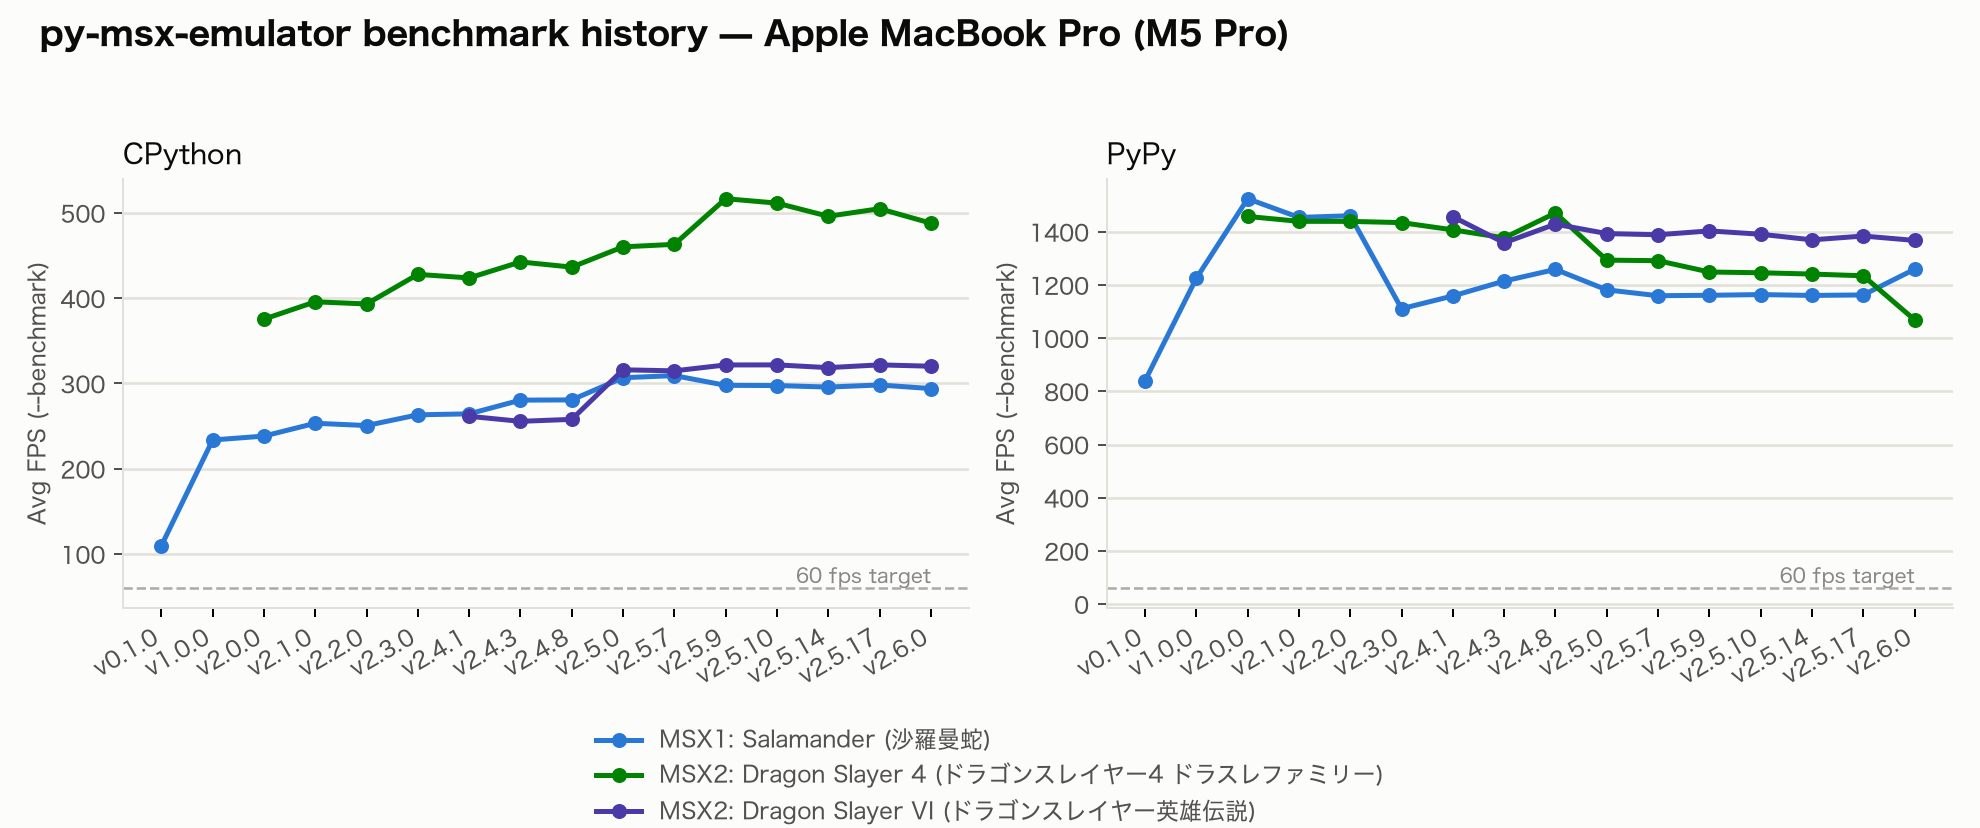
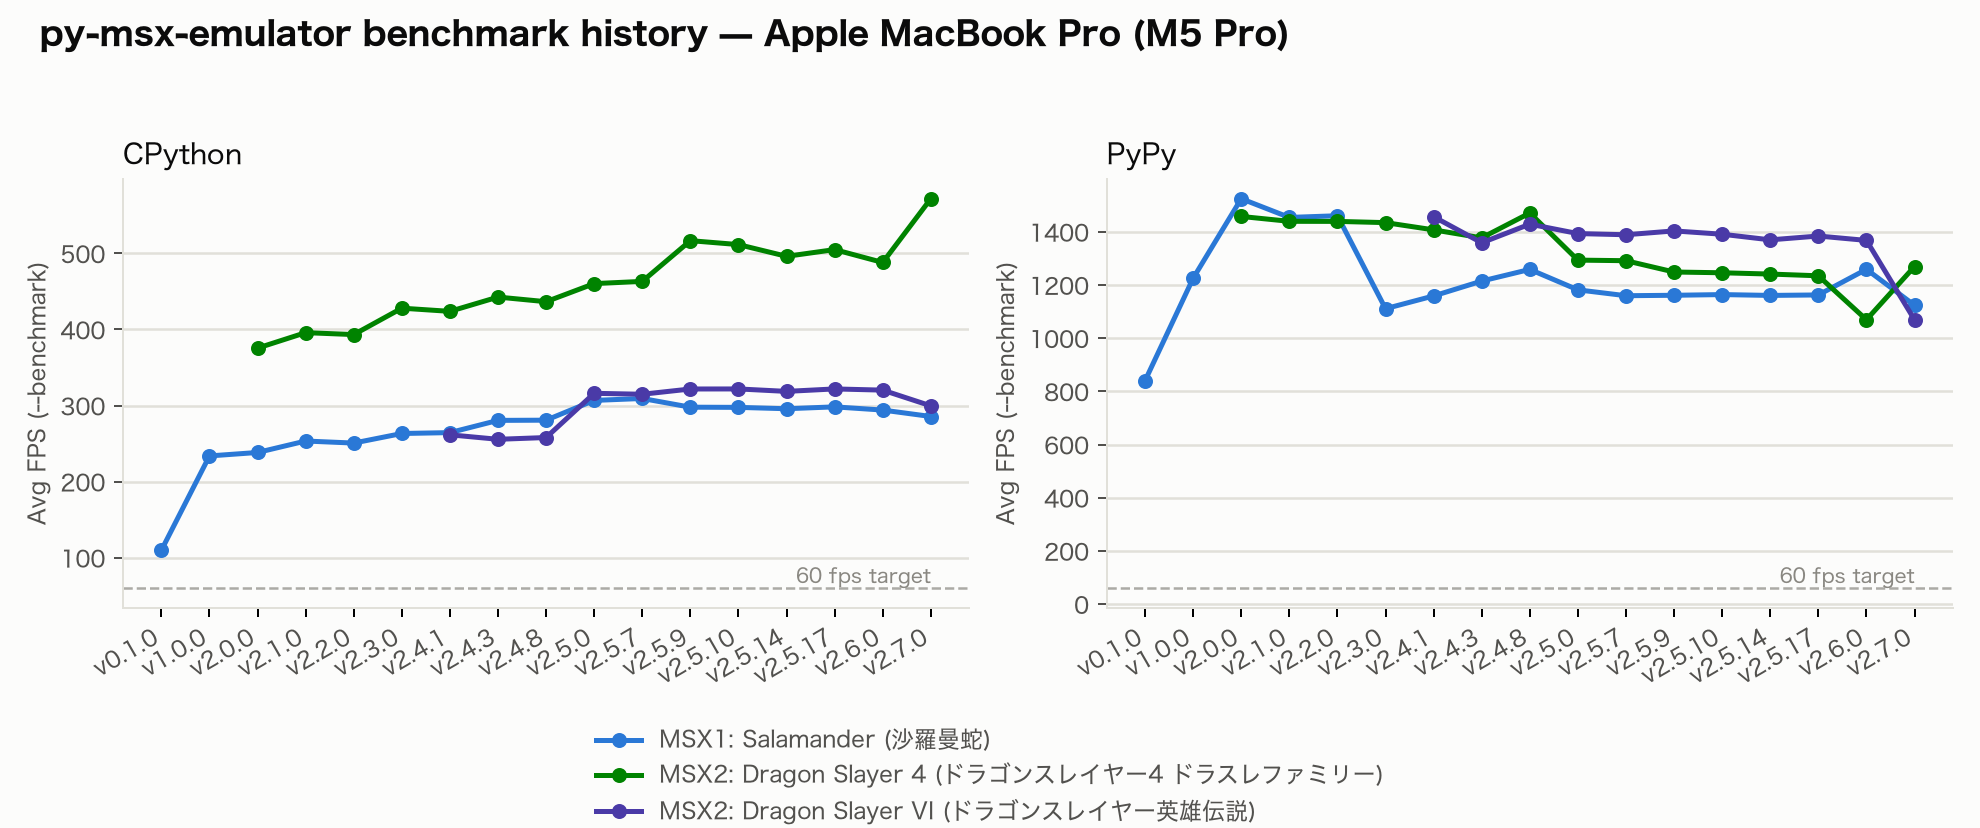
docs(readme): update benchmark tables and history charts through v2.7.0
Adds logs/benchv2-on-v2.7.0_{m5pro,rpi5}.md (measured on this branch's
current state, which includes the HALT-batching perf change) and
regenerates assets/bench-history-{m5pro,rpi5}.png from all logs/
benchv2-on-*.md files via scripts/plot_benchmark_history.py.

README.md/README_ja.md's Performance table and "tightest margin" prose
now reflect v2.7.0's numbers; the Benchmark history section's version
range is updated from v2.6.0 to v2.7.0.

diff --git a/README_ja.md b/README_ja.md
@@ -348,26 +348,26 @@ All VRAM addresses SHALL be masked to 14 bits (`& 0x3FFF`).
 
 | プラットフォーム | ランタイム | ゲーム | 平均 FPS（`--benchmark`） | 60 fps 目標との比 |
 | --- | --- | --- | --- | --- |
-| Apple MacBook Pro（M5 Pro） | CPython 3.12.13 | MSX1: 沙羅曼蛇（CPU+TMS9918+SCC） | 294.03 | 約 4.9 倍 |
-| Apple MacBook Pro（M5 Pro） | CPython 3.12.13 | MSX2: ドラゴンスレイヤー4（CPU+V9938+PSG） | 488.02 | 約 8.1 倍 |
-| Apple MacBook Pro（M5 Pro） | CPython 3.12.13 | MSX2: ドラゴンスレイヤー英雄伝説（CPU+V9938+FDC+FMPAC） | 320.24 | 約 5.3 倍 |
-| Apple MacBook Pro（M5 Pro） | PyPy 7.3.19（Python 3.10.16） | MSX1: 沙羅曼蛇（CPU+TMS9918+SCC） | 1259.00 | 約 21.0 倍 |
-| Apple MacBook Pro（M5 Pro） | PyPy 7.3.19（Python 3.10.16） | MSX2: ドラゴンスレイヤー4（CPU+V9938+PSG） | 1069.32 | 約 17.8 倍 |
-| Apple MacBook Pro（M5 Pro） | PyPy 7.3.19（Python 3.10.16） | MSX2: ドラゴンスレイヤー英雄伝説（CPU+V9938+FDC+FMPAC） | 1367.67 | 約 22.8 倍 |
-| Raspberry Pi 5 | CPython 3.12.13 | MSX1: 沙羅曼蛇（CPU+TMS9918+SCC） | 77.71 | 約 1.3 倍 |
-| Raspberry Pi 5 | CPython 3.12.13 | MSX2: ドラゴンスレイヤー4（CPU+V9938+PSG） | 131.06 | 約 2.2 倍 |
-| Raspberry Pi 5 | CPython 3.12.13 | MSX2: ドラゴンスレイヤー英雄伝説（CPU+V9938+FDC+FMPAC） | 86.27 | 約 1.4 倍 |
-| Raspberry Pi 5 | PyPy 7.3.19（Python 3.10.16） | MSX1: 沙羅曼蛇（CPU+TMS9918+SCC） | 274.27 | 約 4.6 倍 |
-| Raspberry Pi 5 | PyPy 7.3.19（Python 3.10.16） | MSX2: ドラゴンスレイヤー4（CPU+V9938+PSG） | 359.61 | 約 6.0 倍 |
-| Raspberry Pi 5 | PyPy 7.3.19（Python 3.10.16） | MSX2: ドラゴンスレイヤー英雄伝説（CPU+V9938+FDC+FMPAC） | 333.84 | 約 5.6 倍 |
+| Apple MacBook Pro（M5 Pro） | CPython 3.12.13 | MSX1: 沙羅曼蛇（CPU+TMS9918+SCC） | 285.57 | 約 4.8 倍 |
+| Apple MacBook Pro（M5 Pro） | CPython 3.12.13 | MSX2: ドラゴンスレイヤー4（CPU+V9938+PSG） | 571.82 | 約 9.5 倍 |
+| Apple MacBook Pro（M5 Pro） | CPython 3.12.13 | MSX2: ドラゴンスレイヤー英雄伝説（CPU+V9938+FDC+FMPAC） | 299.56 | 約 5.0 倍 |
+| Apple MacBook Pro（M5 Pro） | PyPy 7.3.19（Python 3.10.16） | MSX1: 沙羅曼蛇（CPU+TMS9918+SCC） | 1123.72 | 約 18.7 倍 |
+| Apple MacBook Pro（M5 Pro） | PyPy 7.3.19（Python 3.10.16） | MSX2: ドラゴンスレイヤー4（CPU+V9938+PSG） | 1269.52 | 約 21.2 倍 |
+| Apple MacBook Pro（M5 Pro） | PyPy 7.3.19（Python 3.10.16） | MSX2: ドラゴンスレイヤー英雄伝説（CPU+V9938+FDC+FMPAC） | 1069.07 | 約 17.8 倍 |
+| Raspberry Pi 5 | CPython 3.12.13 | MSX1: 沙羅曼蛇（CPU+TMS9918+SCC） | 74.91 | 約 1.2 倍 |
+| Raspberry Pi 5 | CPython 3.12.13 | MSX2: ドラゴンスレイヤー4（CPU+V9938+PSG） | 189.38 | 約 3.2 倍 |
+| Raspberry Pi 5 | CPython 3.12.13 | MSX2: ドラゴンスレイヤー英雄伝説（CPU+V9938+FDC+FMPAC） | 84.54 | 約 1.4 倍 |
+| Raspberry Pi 5 | PyPy 7.3.19（Python 3.10.16） | MSX1: 沙羅曼蛇（CPU+TMS9918+SCC） | 359.38 | 約 6.0 倍 |
+| Raspberry Pi 5 | PyPy 7.3.19（Python 3.10.16） | MSX2: ドラゴンスレイヤー4（CPU+V9938+PSG） | 472.93 | 約 7.9 倍 |
+| Raspberry Pi 5 | PyPy 7.3.19（Python 3.10.16） | MSX2: ドラゴンスレイヤー英雄伝説（CPU+V9938+FDC+FMPAC） | 314.82 | 約 5.2 倍 |
 
-今回計測したすべての組み合わせが、生の 60 fps 目標をクリアしています。最も余裕が小さいのは Raspberry Pi 5 + CPython で沙羅曼蛇（MSX1、KonamiSCC マッパー — 対象タイトルの中で描画・オーディオ負荷が最も重い）を実行した場合で、約 1.3 倍です。PyPy に切り替えると同じケースが約 4.6 倍まで上がります。Raspberry Pi 5 より低速なハードウェア、あるいはより重いタイトルでは 60 fps を下回ることがあり、その場合は達成されたフレームレートに比例してゲームがスローモーションで動作します。オーディオサンプルはフレームごとに生成される一方でオーディオデバイスは常に 44100 Hz で消費するため、オーディオも劣化します（クリックノイズや無音）。PyPy3 はそのまま代替として使えるランタイムであり、処理能力の低いハードウェアでのスループットを大幅に改善するため、Raspberry Pi のような制約のあるハードウェアで余裕を保つために推奨されます。
+今回計測したすべての組み合わせが、生の 60 fps 目標をクリアしています。最も余裕が小さいのは Raspberry Pi 5 + CPython で沙羅曼蛇（MSX1、KonamiSCC マッパー — 対象タイトルの中で描画・オーディオ負荷が最も重い）を実行した場合で、約 1.2 倍です。PyPy に切り替えると同じケースが約 6.0 倍まで上がります。Raspberry Pi 5 より低速なハードウェア、あるいはより重いタイトルでは 60 fps を下回ることがあり、その場合は達成されたフレームレートに比例してゲームがスローモーションで動作します。オーディオサンプルはフレームごとに生成される一方でオーディオデバイスは常に 44100 Hz で消費するため、オーディオも劣化します（クリックノイズや無音）。PyPy3 はそのまま代替として使えるランタイムであり、処理能力の低いハードウェアでのスループットを大幅に改善するため、Raspberry Pi のような制約のあるハードウェアで余裕を保つために推奨されます。
 
 PyPy の数値は CPython よりも実行ごとのブレが大きくなりやすい点に注意してください。特定の（プラットフォーム、ゲーム）の組み合わせで、通常の範囲から大きく外れた値が出ることがあります。エミュレータ自体の問題というより、OS/ハードウェア側のスケジューリング挙動（コア間の移動やサーマルスロットリングなど）が原因である可能性が高いです。PyPy の数値は正確な値というより、大まかな目安として捉えてください。
 
 ### ベンチマーク推移
 
-v0.1.0 から v2.6.0 までの平均 FPS（`--benchmark`）の推移（プラットフォーム・ランタイム別）。すべて上記のコールドブート方式で統一して計測しています。
+v0.1.0 から v2.7.0 までの平均 FPS（`--benchmark`）の推移（プラットフォーム・ランタイム別）。すべて上記のコールドブート方式で統一して計測しています。
 
 ![Apple MacBook Pro（M5 Pro）でのベンチマーク推移](assets/bench-history-m5pro.png)
 

diff --git a/README.md b/README.md
@@ -538,23 +538,23 @@ score.
 
 | Platform | Runtime | Game | Avg FPS (`--benchmark`) | vs. 60 fps target |
 | --- | --- | --- | --- | --- |
-| Apple MacBook Pro (M5 Pro) | CPython 3.12.13 | MSX1: Salamander (CPU+TMS9918+SCC) | 294.03 | ~4.9× |
-| Apple MacBook Pro (M5 Pro) | CPython 3.12.13 | MSX2: Dragon Slayer 4 (CPU+V9938+PSG) | 488.02 | ~8.1× |
-| Apple MacBook Pro (M5 Pro) | CPython 3.12.13 | MSX2: Dragon Slayer VI - The Legend of Heroes (CPU+V9938+FDC+FMPAC) | 320.24 | ~5.3× |
-| Apple MacBook Pro (M5 Pro) | PyPy 7.3.19 (Python 3.10.16) | MSX1: Salamander (CPU+TMS9918+SCC) | 1259.00 | ~21.0× |
-| Apple MacBook Pro (M5 Pro) | PyPy 7.3.19 (Python 3.10.16) | MSX2: Dragon Slayer 4 (CPU+V9938+PSG) | 1069.32 | ~17.8× |
-| Apple MacBook Pro (M5 Pro) | PyPy 7.3.19 (Python 3.10.16) | MSX2: Dragon Slayer VI - The Legend of Heroes (CPU+V9938+FDC+FMPAC) | 1367.67 | ~22.8× |
-| Raspberry Pi 5 | CPython 3.12.13 | MSX1: Salamander (CPU+TMS9918+SCC) | 77.71 | ~1.3× |
-| Raspberry Pi 5 | CPython 3.12.13 | MSX2: Dragon Slayer 4 (CPU+V9938+PSG) | 131.06 | ~2.2× |
-| Raspberry Pi 5 | CPython 3.12.13 | MSX2: Dragon Slayer VI - The Legend of Heroes (CPU+V9938+FDC+FMPAC) | 86.27 | ~1.4× |
-| Raspberry Pi 5 | PyPy 7.3.19 (Python 3.10.16) | MSX1: Salamander (CPU+TMS9918+SCC) | 274.27 | ~4.6× |
-| Raspberry Pi 5 | PyPy 7.3.19 (Python 3.10.16) | MSX2: Dragon Slayer 4 (CPU+V9938+PSG) | 359.61 | ~6.0× |
-| Raspberry Pi 5 | PyPy 7.3.19 (Python 3.10.16) | MSX2: Dragon Slayer VI - The Legend of Heroes (CPU+V9938+FDC+FMPAC) | 333.84 | ~5.6× |
+| Apple MacBook Pro (M5 Pro) | CPython 3.12.13 | MSX1: Salamander (CPU+TMS9918+SCC) | 285.57 | ~4.8× |
+| Apple MacBook Pro (M5 Pro) | CPython 3.12.13 | MSX2: Dragon Slayer 4 (CPU+V9938+PSG) | 571.82 | ~9.5× |
+| Apple MacBook Pro (M5 Pro) | CPython 3.12.13 | MSX2: Dragon Slayer VI - The Legend of Heroes (CPU+V9938+FDC+FMPAC) | 299.56 | ~5.0× |
+| Apple MacBook Pro (M5 Pro) | PyPy 7.3.19 (Python 3.10.16) | MSX1: Salamander (CPU+TMS9918+SCC) | 1123.72 | ~18.7× |
+| Apple MacBook Pro (M5 Pro) | PyPy 7.3.19 (Python 3.10.16) | MSX2: Dragon Slayer 4 (CPU+V9938+PSG) | 1269.52 | ~21.2× |
+| Apple MacBook Pro (M5 Pro) | PyPy 7.3.19 (Python 3.10.16) | MSX2: Dragon Slayer VI - The Legend of Heroes (CPU+V9938+FDC+FMPAC) | 1069.07 | ~17.8× |
+| Raspberry Pi 5 | CPython 3.12.13 | MSX1: Salamander (CPU+TMS9918+SCC) | 74.91 | ~1.2× |
+| Raspberry Pi 5 | CPython 3.12.13 | MSX2: Dragon Slayer 4 (CPU+V9938+PSG) | 189.38 | ~3.2× |
+| Raspberry Pi 5 | CPython 3.12.13 | MSX2: Dragon Slayer VI - The Legend of Heroes (CPU+V9938+FDC+FMPAC) | 84.54 | ~1.4× |
+| Raspberry Pi 5 | PyPy 7.3.19 (Python 3.10.16) | MSX1: Salamander (CPU+TMS9918+SCC) | 359.38 | ~6.0× |
+| Raspberry Pi 5 | PyPy 7.3.19 (Python 3.10.16) | MSX2: Dragon Slayer 4 (CPU+V9938+PSG) | 472.93 | ~7.9× |
+| Raspberry Pi 5 | PyPy 7.3.19 (Python 3.10.16) | MSX2: Dragon Slayer VI - The Legend of Heroes (CPU+V9938+FDC+FMPAC) | 314.82 | ~5.2× |
 
 Every combination tested clears the raw 60 fps target. The tightest margin is
 Raspberry Pi 5 with CPython running Salamander (MSX1, KonamiSCC mapper — the
-heaviest rendering/audio load among the target titles) at ~1.3×; PyPy raises the
-same case to ~4.6×. On hardware weaker than a Raspberry Pi 5, or under a heavier
+heaviest rendering/audio load among the target titles) at ~1.2×; PyPy raises the
+same case to ~6.0×. On hardware weaker than a Raspberry Pi 5, or under a heavier
 title, a run can still drop below 60 fps — in which case the game runs in slow
 motion at a rate proportional to the achieved frame rate, and audio degrades
 (clicks or silence) because samples are generated per-frame while the audio
@@ -570,7 +570,7 @@ PyPy figures as broadly indicative rather than exact.
 
 ### Benchmark history
 
-Avg FPS (`--benchmark`) from v0.1.0 through v2.6.0, per platform and runtime.
+Avg FPS (`--benchmark`) from v0.1.0 through v2.7.0, per platform and runtime.
 All versions were measured uniformly with the cold-boot methodology above.
 
 ![Benchmark history on Apple MacBook Pro (M5 Pro)](assets/bench-history-m5pro.png)
